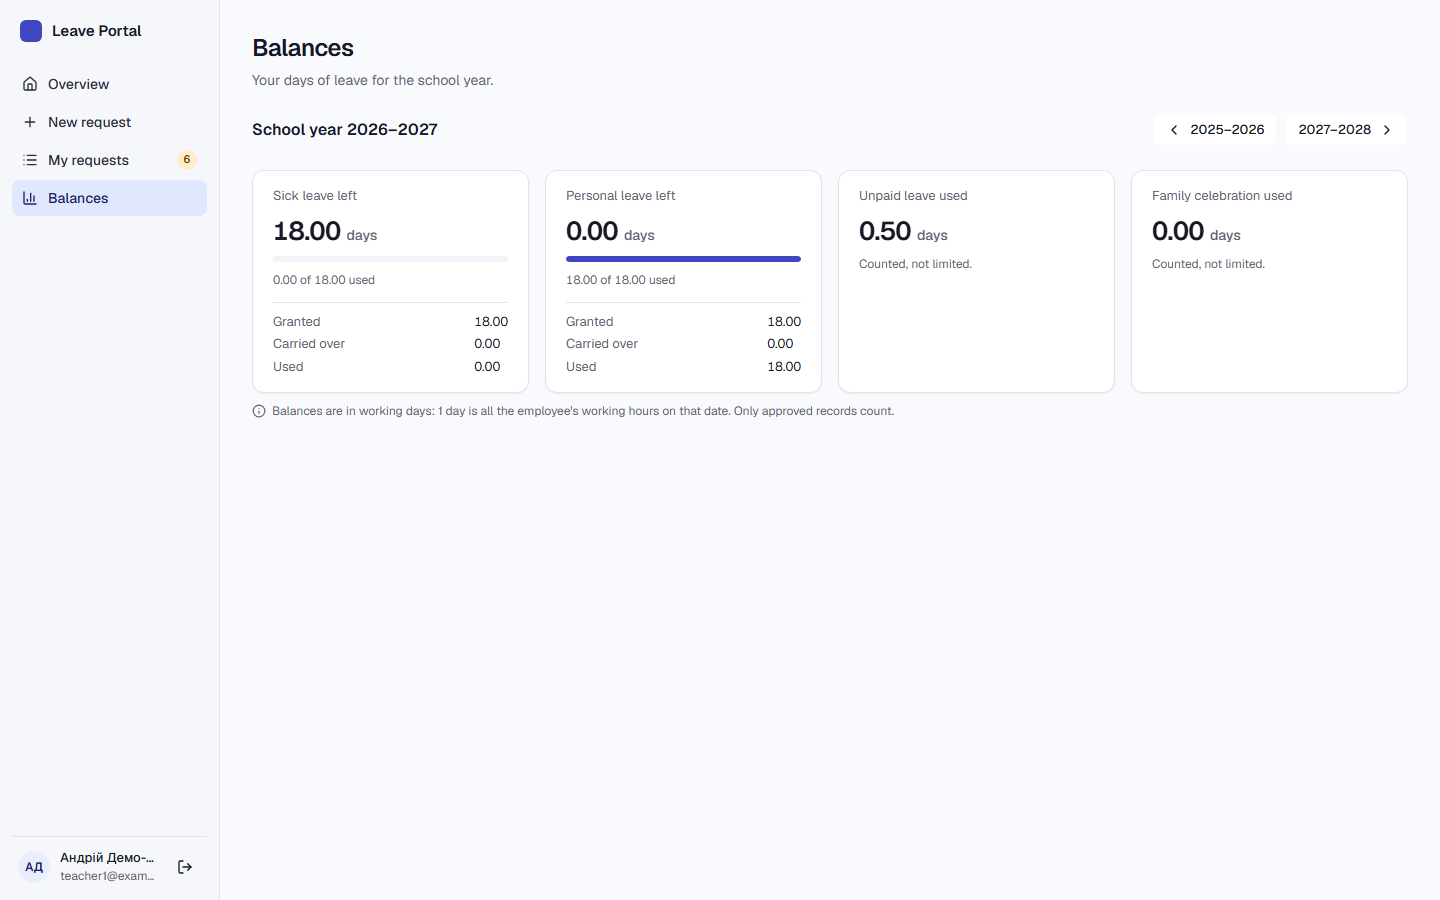
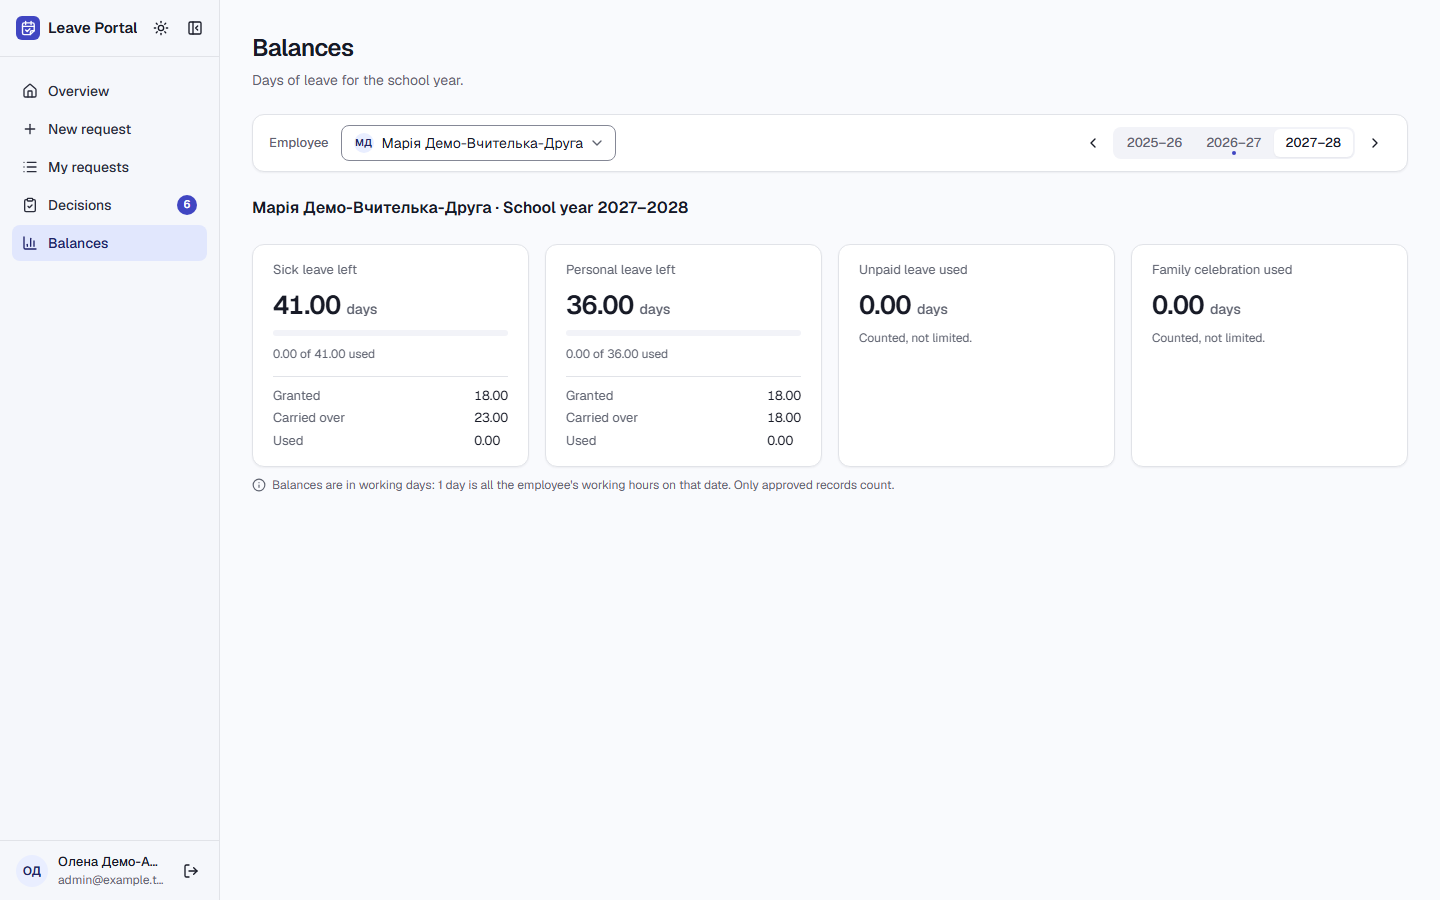
Реалізація: Balances — employee and year in one panel, no Show button (#29)
* Balances: employee and year in one panel, no Show button

- The employee picker moved out of the page header into a panel above
  the cards: employee on the left, school years as segments on the right
  (‹ 2025–26 | 2026–27 | 2027–28 ›, the shown year highlighted, the
  current one dotted). The heading below still says whose balances and
  which year.
- Picking an employee navigates at once with the same ?employee=&year=;
  without JavaScript the GET form shows a Show button (<noscript>).
- List items: initials in a circle, the name, the email below.
- Select (all of them): padding around the list, item text truncates
  instead of running under the check, the selected item is a calm
  accent fill with the check.
- The Balances skeleton has the panel too.

* Balances picker follows the URL, accessible year names, review fixes

- The employee Select is controlled by ?employee=: after Back or the
  sidebar link it shows whose balances are on the page; an id not in the
  list shows "Select an employee" instead of "My balances".
- Typeahead searches the name only (SelectItem label), not initials and
  email.
- No <noscript> Show button: without JavaScript the Select cannot open,
  so it could only resubmit the current value.
- Year segments keep their visible text as the link name ("School year"
  and "(current)" are sr-only); arrows are "Previous/Next school year";
  "Current year" appears when the current year is out of view; the
[…]

diff --git a/src/app/(app)/balances/page.tsx b/src/app/(app)/balances/page.tsx
@@ -1,13 +1,11 @@
-import Link from "next/link";
 import { redirect } from "next/navigation";
-import { ChevronLeft, ChevronRight, Lock } from "lucide-react";
+import { CircleAlert, Lock } from "lucide-react";
 import { BalanceCards } from "@/components/balance-cards";
+import { EmployeePicker } from "@/components/employee-picker";
+import { SchoolYearSwitcher } from "@/components/school-year-switcher";
 import { Alert, AlertDescription } from "@/components/ui/alert";
-import { Button, buttonVariants } from "@/components/ui/button";
 import { EmptyState } from "@/components/ui/empty-state";
-import { Label } from "@/components/ui/label";
 import { PageHeader } from "@/components/ui/page-header";
-import { Select, SelectContent, SelectItem, SelectTrigger, SelectValue } from "@/components/ui/select";
 import { formatSchoolYear, schoolYearOf } from "@/lib/leave/balance";
 import { kyivDate } from "@/lib/leave/time";
 import { createClient } from "@/lib/supabase/server";
@@ -45,78 +43,42 @@ export default async function BalancesPage({ searchParams }: PageProps<"/balance
     supabase.rpc("balance_employees"),
   ]);
 
-  const others = employees ?? [];
-  const items = [
-    { value: OWN, label: "My balances" },
-    ...others.map((e) => ({ value: e.id, label: e.full_name || e.email || "Employee" })),
-  ];
-  // Шапка однакова для своїх і чужих залишків: вибір працівника завжди праворуч угорі, а чиї це залишки —
-  // в описі й у рядку навчального року.
+  const others = (employees ?? []).map((e) => ({ id: e.id, name: e.full_name || e.email || "Employee", email: e.email ?? "" }));
+  // Чиї це залишки — у рядку над картками; шапка однакова для своїх і чужих.
   const whose = employeeParam && result.ok ? result.employee.name : null;
 
   return (
     <>
       <PageHeader
         title="Balances"
-        description={whose ? `${whose}. Days of leave for the school year.` : "Your days of leave for the school year."}
-        actions={
-          others.length > 0 ? (
-            <form action="/balances" className="flex items-end gap-2">
-              <input type="hidden" name="year" value={year} />
-              <div className="flex flex-col gap-1.5">
-                <Label htmlFor="balances-employee">Employee</Label>
-                <Select name="employee" defaultValue={employeeParam ?? OWN} items={items}>
-                  <SelectTrigger id="balances-employee" className="min-w-56">
-                    <SelectValue />
-                  </SelectTrigger>
-                  <SelectContent>
-                    {items.map((item) => (
-                      <SelectItem key={item.value} value={item.value}>
-                        {item.label}
-                      </SelectItem>
-                    ))}
-                  </SelectContent>
-                </Select>
-              </div>
-              {/* GET-форма без серверної дії: useFormStatus її не бачить, тож звичайна кнопка, без «Showing…». */}
-              <Button type="submit" variant="outline">
-                Show
-              </Button>
-            </form>
-          ) : employeesError ? (
-            // Без списку менеджер не відкриє залишки працівника — кажемо чому, а не ховаємо вибір мовчки.
-            <Alert variant="destructive" role="alert" className="max-w-sm">
-              <AlertDescription>The list of employees could not be loaded. Please reload the page.</AlertDescription>
-            </Alert>
-          ) : undefined
-        }
+        description={others.length > 0 ? "Days of leave for the school year." : "Your days of leave for the school year."}
       />
 
-      <div className="flex flex-wrap items-center justify-between gap-3">
-        <h2 className="text-base font-semibold">
-          {whose ? `${whose} · ` : ""}School year {formatSchoolYear(year)}
-        </h2>
-        <nav aria-label="School year" className="flex items-center gap-2">
-          {/* На межах діапазону balancesQuery посилання за межу немає: 1999 чи 2100 відкрили б поточний рік. */}
-          {year > MIN_SCHOOL_YEAR && (
-            <Link href={balancesHref(employeeParam, year - 1)} className={buttonVariants({ variant: "outline", size: "sm" })}>
-              <ChevronLeft />
-              {formatSchoolYear(year - 1)}
-            </Link>
-          )}
-          {year !== currentYear && (
-            <Link href={balancesHref(employeeParam, currentYear)} className={buttonVariants({ variant: "ghost", size: "sm" })}>
-              Current year
-            </Link>
-          )}
-          {year < MAX_SCHOOL_YEAR && (
-            <Link href={balancesHref(employeeParam, year + 1)} className={buttonVariants({ variant: "outline", size: "sm" })}>
-              {formatSchoolYear(year + 1)}
-              <ChevronRight />
-            </Link>
-          )}
-        </nav>
+      {/* Панель вибору: ліворуч — чиї залишки (менеджеру й адміністратору), праворуч — навчальний рік. */}
+      <div className="flex flex-wrap items-center justify-between gap-3 rounded-lg border border-border bg-card px-4 py-2.5 shadow-sm">
+        {others.length > 0 ? (
+          <EmployeePicker employees={others} selected={employeeParam ?? OWN} own={OWN} year={year} />
+        ) : employeesError ? (
+          // Без списку менеджер не відкриє залишки працівника — кажемо чому, а не ховаємо вибір мовчки.
+          <Alert variant="destructive" role="alert" className="w-auto py-2">
+            <CircleAlert />
+            <AlertDescription>The list of employees could not be loaded. Please reload the page.</AlertDescription>
+          </Alert>
+        ) : (
+          <span className="text-[13px] font-medium">My balances</span>
+        )}
+        <SchoolYearSwitcher
+          year={year}
+          current={currentYear}
+          min={MIN_SCHOOL_YEAR}
+          max={MAX_SCHOOL_YEAR}
+          href={(y) => balancesHref(employeeParam, y)}
+        />
       </div>
+
+      <h2 className="text-base font-semibold">
+        {whose ? `${whose} · ` : ""}School year {formatSchoolYear(year)}
+      </h2>
 
       {result.ok ? (
         <BalanceCards balances={result.balances} detailed />

diff --git a/src/components/employee-picker.tsx b/src/components/employee-picker.tsx
@@ -1,0 +1,117 @@
+"use client";
+
+import { useRouter } from "next/navigation";
+import { useTransition } from "react";
+import { UserRound } from "lucide-react";
+import { Label } from "@/components/ui/label";
+import { Select, SelectContent, SelectItem, SelectTrigger, SelectValue } from "@/components/ui/select";
+import { cn } from "@/lib/utils";
+
+export type PickerEmployee = { id: string; name: string; email: string };
+
+function initials(name: string) {
+  return name
+    .split(/[\s-]+/)
+    .filter(Boolean)
+    .slice(0, 2)
+    .map((part) => part[0]!.toUpperCase())
+    .join("");
+}
+
+/** Ініціали в колі; для «My balances» — іконка людини. */
+function Avatar({ employee, className }: { employee: PickerEmployee | null; className?: string }) {
+  return (
+    <span
+      aria-hidden="true"
+      className={cn(
+        "grid size-6 shrink-0 place-items-center rounded-full bg-accent text-xs font-semibold text-accent-foreground [&_svg]:size-3.5",
+        className,
+      )}
+    >
+      {employee ? initials(employee.name) : <UserRound />}
+    </span>
+  );
+}
+
+/**
+ * Вибір працівника на /balances для менеджера й адміністратора: пункт — ініціали, ім'я, нижче email. Перехід — одразу
+ * після вибору, з тим самим `?employee=&year=`. `selected` — з адреси сторінки: Select керований, тож після «Назад» чи
+ * переходу з меню показує саме те, чиї залишки на сторінці. `own` — значення пункту «My balances» (Base UI не приймає
+ * "" як значення пункту). Без JavaScript список не відкривається зовсім, тож запасної форми немає: рік і чужі
+ * залишки відкриваються посиланнями.
+ */
+export function EmployeePicker({
+  employees,
+  selected,
+  own,
+  year,
+}: {
+  employees: PickerEmployee[];
+  selected: string;
+  own: string;
+  year: number;
+}) {
+  const router = useRouter();
+  const [pending, startTransition] = useTransition();
+  const byId = new Map(employees.map((e) => [e.id, e]));
+  const items = [{ value: own, label: "My balances" }, ...employees.map((e) => ({ value: e.id, label: e.name }))];
+  // `?employee=` не зі списку (чужий чи зіпсований id): сторінка каже, що залишки недоступні, а вибір — нейтральний.
+  const known = selected === own || byId.has(selected);
+
+  function go(value: unknown) {
+    if (typeof value !== "string" || value === selected) return;
+    const params = new URLSearchParams();
+    if (value !== own) params.set("employee", value);
+    params.set("year", String(year));
+    startTransition(() => router.push(`/balances?${params}`));
+  }
+
+  return (
+    <div className="flex items-center gap-3">
+      <Label htmlFor="balances-employee" className="text-muted-foreground">
+        Employee
+      </Label>
+      <Select value={known ? selected : null} items={items} onValueChange={go}>
+        <SelectTrigger id="balances-employee" className="h-9 max-w-80 min-w-64" aria-busy={pending || undefined}>
+          <SelectValue>
+            {(value: string | null) =>
+              value === null ? (
+                <span className="text-muted-foreground">Select an employee</span>
+              ) : (
+                <span className="flex min-w-0 items-center gap-2">
+                  <Avatar employee={byId.get(value) ?? null} className="size-5 text-[10px]" />
+                  <span className="truncate">{byId.get(value)?.name ?? "My balances"}</span>
+                </span>
+              )
+            }
+          </SelectValue>
+          {pending && (
+            <span
+              aria-hidden="true"
+              className="size-3.5 shrink-0 rounded-full border-2 border-current border-r-transparent text-muted-foreground motion-safe:animate-spin"
+            />
+          )}
+        </SelectTrigger>
+        <SelectContent alignItemWithTrigger={false} align="start" className="w-auto max-w-80 min-w-(--anchor-width)">
+          {items.map((item) => {
+            const employee = byId.get(item.value) ?? null;
+            return (
+              // label — для пошуку набором тексту: без нього Base UI шукав би й в ініціалах та email.
+              <SelectItem key={item.value} value={item.value} label={item.label}>
+                <span className="flex items-center gap-2">
+                  <Avatar employee={employee} />
+                  <span className="flex min-w-0 flex-col">
+                    <span className="truncate">{item.label}</span>
+                    <span className="truncate text-xs text-muted-foreground">
+                      {employee ? employee.email : "Your own balances"}
+                    </span>
+                  </span>
+                </span>
+              </SelectItem>
+            );
+          })}
+        </SelectContent>
+      </Select>
+    </div>
+  );
+}

diff --git a/src/components/ui/select.tsx b/src/components/ui/select.tsx
@@ -82,7 +82,7 @@ function SelectContent({
         <SelectPrimitive.Popup
           data-slot="select-content"
           data-align-trigger={alignItemWithTrigger}
-          className={cn("relative isolate z-50 max-h-(--available-height) w-(--anchor-width) min-w-36 origin-(--transform-origin) overflow-x-hidden overflow-y-auto rounded-md border border-border bg-popover text-popover-foreground shadow-md duration-(--duration-base) data-[align-trigger=true]:animate-none data-[side=bottom]:slide-in-from-top-2 data-[side=inline-end]:slide-in-from-left-2 data-[side=inline-start]:slide-in-from-right-2 data-[side=left]:slide-in-from-right-2 data-[side=right]:slide-in-from-left-2 data-[side=top]:slide-in-from-bottom-2 data-open:animate-in data-open:fade-in-0 data-open:zoom-in-95 data-closed:animate-out data-closed:fade-out-0 data-closed:zoom-out-95", className )}
+          className={cn("relative isolate z-50 max-h-(--available-height) w-(--anchor-width) min-w-36 origin-(--transform-origin) overflow-x-hidden overflow-y-auto rounded-md border border-border bg-popover p-1 text-popover-foreground shadow-md duration-(--duration-base) data-[align-trigger=true]:animate-none data-[side=bottom]:slide-in-from-top-2 data-[side=inline-end]:slide-in-from-left-2 data-[side=inline-start]:slide-in-from-right-2 data-[side=left]:slide-in-from-right-2 data-[side=right]:slide-in-from-left-2 data-[side=top]:slide-in-from-bottom-2 data-open:animate-in data-open:fade-in-0 data-open:zoom-in-95 data-closed:animate-out data-closed:fade-out-0 data-closed:zoom-out-95", className )}
           {...props}
         >
           <SelectScrollUpButton />
@@ -116,17 +116,19 @@ function SelectItem({
     <SelectPrimitive.Item
       data-slot="select-item"
       className={cn(
-        "relative flex w-full cursor-default items-center gap-1.5 rounded-md py-1 pr-8 pl-1.5 text-sm outline-hidden select-none focus:bg-accent focus:text-accent-foreground not-data-[variant=destructive]:focus:**:text-accent-foreground data-disabled:pointer-events-none data-disabled:opacity-50 [&_svg]:pointer-events-none [&_svg]:shrink-0 [&_svg:not([class*='size-'])]:size-4 *:[span]:last:flex *:[span]:last:items-center *:[span]:last:gap-2",
+        // Вибраний пункт — спокійна заливка accent і галочка; пункт під курсором чи клавіатурою — та сама заливка, але
+        // повна. Текст стискається (min-w-0, truncate) і не залазить під галочку праворуч (pr-8).
+        "relative flex w-full cursor-default items-center gap-2 rounded-sm py-1.5 pr-8 pl-2 text-sm outline-hidden select-none data-[selected]:not-focus:bg-accent/60 data-[selected]:text-accent-foreground focus:bg-accent focus:text-accent-foreground not-data-[variant=destructive]:focus:**:text-accent-foreground data-disabled:pointer-events-none data-disabled:opacity-50 [&_svg]:pointer-events-none [&_svg]:shrink-0 [&_svg:not([class*='size-'])]:size-4",
         className
       )}
       {...props}
     >
-      <SelectPrimitive.ItemText className="flex flex-1 shrink-0 gap-2 whitespace-nowrap">
+      <SelectPrimitive.ItemText className="min-w-0 flex-1 truncate">
         {children}
       </SelectPrimitive.ItemText>
       <SelectPrimitive.ItemIndicator
         render={
-          <span className="pointer-events-none absolute right-2 flex size-4 items-center justify-center" />
+          <span className="pointer-events-none absolute right-2.5 flex size-4 items-center justify-center text-accent-foreground" />
         }
       >
         <CheckIcon className="pointer-events-none" />

diff --git a/src/components/school-year-switcher.tsx b/src/components/school-year-switcher.tsx
@@ -1,0 +1,82 @@
+import Link from "next/link";
+import { ChevronLeft, ChevronRight } from "lucide-react";
+import { buttonVariants } from "@/components/ui/button";
+import { cn } from "@/lib/utils";
+
+/** "2026–27": коротко, як на сегменті. */
+function shortYear(year: number) {
+  return `${year}–${String(year + 1).slice(2)}`;
+}
+
+/**
+ * Навчальні роки сегментами: ‹ 2025–26 | 2026–27 | 2027–28 ›. Показаний рік виділено; поки він поруч із поточним,
+ * сегменти стоять навколо поточного, а далі — навколо показаного, щоб він завжди був видно; тоді поруч з'являється
+ * «Current year». Поточний рік позначено крапкою. Стрілки — на рік назад і вперед, у межах `min`…`max`.
+ * Назва посилання — видимий текст (2.5.3 WCAG), «School year» і «(current)» додано лише для зчитувача екрана.
+ */
+export function SchoolYearSwitcher({
+  year,
+  current,
+  min,
+  max,
+  href,
+}: {
+  year: number;
+  current: number;
+  min: number;
+  max: number;
+  href: (year: number) => string;
+}) {
+  const center = Math.abs(year - current) <= 1 ? current : year;
+  const years = [center - 1, center, center + 1].filter((y) => y >= min && y <= max);
+  const arrow = buttonVariants({ variant: "ghost", size: "icon-sm" });
+
+  return (
+    <nav aria-label="School year" className="flex items-center gap-1">
+      {!years.includes(current) && (
+        <Link href={href(current)} className={buttonVariants({ variant: "ghost", size: "sm", className: "mr-1" })}>
+          Current year
+        </Link>
+      )}
+      {year > min ? (
+        <Link href={href(year - 1)} aria-label="Previous school year" className={arrow}>
+          <ChevronLeft />
+        </Link>
+      ) : (
+        <span aria-hidden="true" className="size-8" />
+      )}
+      <div className="flex rounded-md bg-muted p-0.5">
+        {years.map((y) => {
+          const active = y === year;
+          return (
+            <Link
+              key={y}
+              href={href(y)}
+              aria-current={active ? "page" : undefined}
+              className={cn(
+                "relative grid h-7 place-items-center rounded-sm px-3 text-[13px] font-medium tabular-nums transition-colors duration-(--duration-fast) ease-out",
+                active ? "bg-card text-foreground shadow-sm" : "text-muted-foreground hover:text-foreground",
+              )}
+            >
+              <span>
+                <span className="sr-only">School year </span>
+                {shortYear(y)}
+                {y === current && <span className="sr-only"> (current)</span>}
+              </span>
+              {y === current && (
+                <span aria-hidden="true" className="absolute bottom-0.5 left-1/2 size-1 -translate-x-1/2 rounded-full bg-primary" />
+              )}
+            </Link>
+          );
+        })}
+      </div>
+      {year < max ? (
+        <Link href={href(year + 1)} aria-label="Next school year" className={arrow}>
+          <ChevronRight />
+        </Link>
+      ) : (
+        <span aria-hidden="true" className="size-8" />
+      )}
+    </nav>
+  );
+}

diff --git a/src/app/(app)/balances/loading.tsx b/src/app/(app)/balances/loading.tsx
@@ -1,18 +1,16 @@
 import { BalanceCardsShape, HeaderShape, LoadingPage } from "@/components/loading-shapes";
 import { Skeleton } from "@/components/ui/skeleton";
 
-// Balances: заголовок, рядок навчального року з переходами між роками і картки залишків з подробицями.
+// Balances: заголовок, панель вибору (працівник ліворуч, роки праворуч), рядок року й картки залишків з подробицями.
 export default function Loading() {
   return (
     <LoadingPage>
       <HeaderShape action={false} />
-      <div className="flex flex-wrap items-center justify-between gap-3">
-        <Skeleton className="h-5 w-52" />
-        <div className="flex gap-2">
-          <Skeleton className="h-8 w-28 rounded-md" />
-          <Skeleton className="h-8 w-28 rounded-md" />
-        </div>
+      <div className="flex flex-wrap items-center justify-between gap-3 rounded-lg border border-border bg-card px-4 py-2.5 shadow-sm">
+        <Skeleton className="h-9 w-80 rounded-md" />
+        <Skeleton className="h-8 w-64 rounded-md" />
       </div>
+      <Skeleton className="h-5 w-52" />
       <BalanceCardsShape detailed />
     </LoadingPage>
   );
